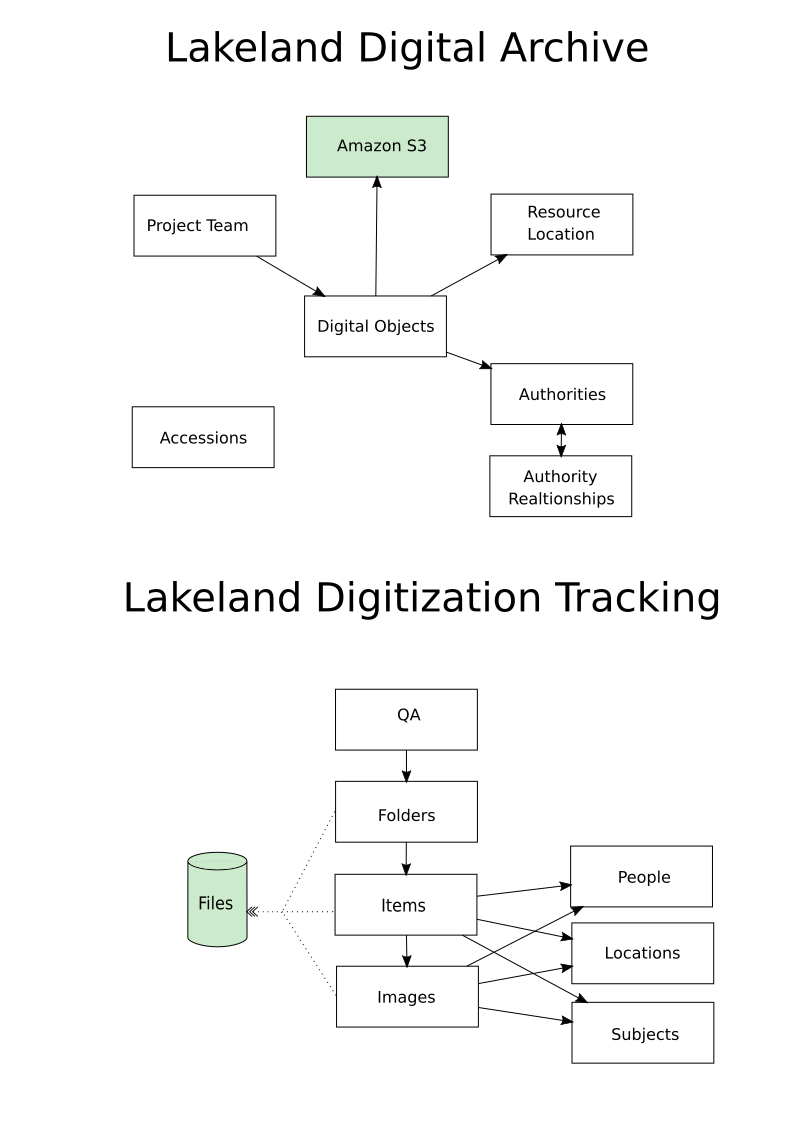
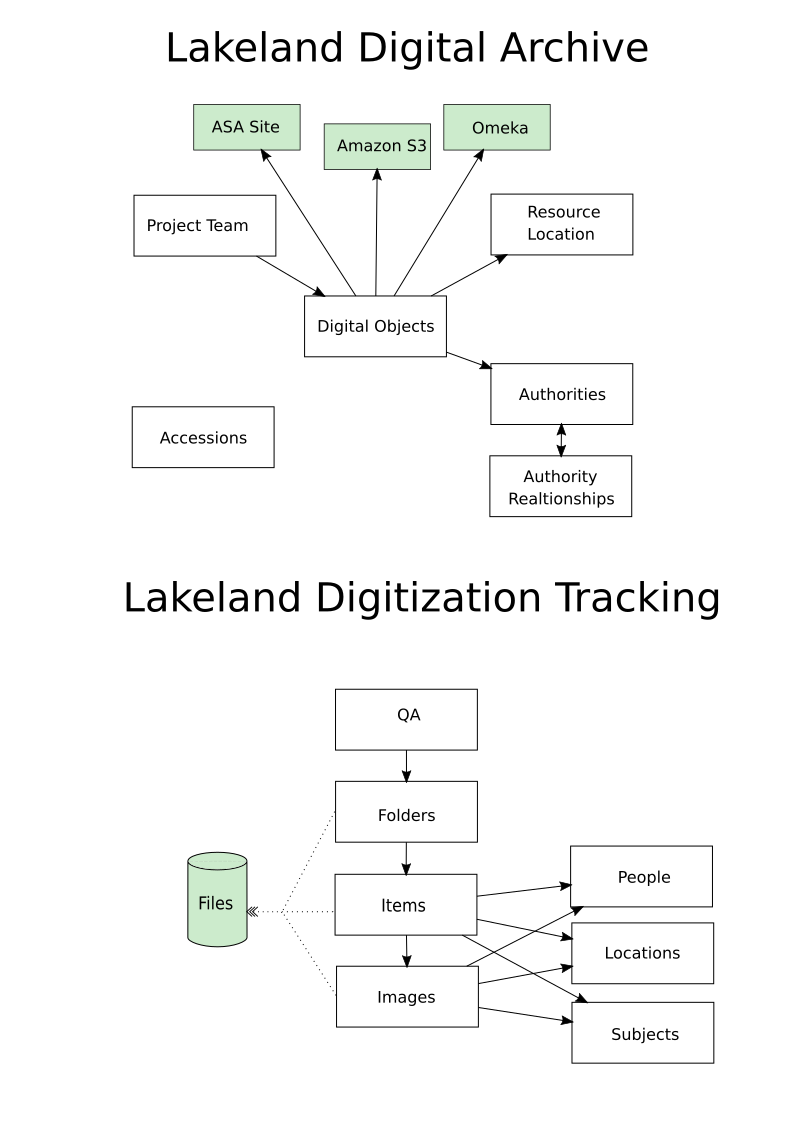
docs

Changed region(s): [[0.2418, 0.0935, 0.6952, 0.187]]

diff --git a/README.md b/README.md
@@ -246,7 +246,7 @@ The Lakeland Digital Archive (LDA) and Lakeland Digitization Tracking (LDT) data
 * LDT is all oriented around image files, whereas LDA is oriented towards multiple media types (audio, images, text).
 * LDT has hierarchy (folder, items, images) whereas LDA is flat record per file.
 * LDT and LDA both model subjects, people, locations. LDA has a single table for all of them, whereas LDT has separate tables for each type.
-* LDA is linked to the file system via a naming convention involving the folder, item and image name. LDT is explicitly linked to a URL (S3 bucket).
+* LDA is linked to the file system via a naming convention involving the folder, item and image name. LDT is explicitly linked to a URL (S3 bucket), but there are some links to the ASA interviews, and the old Omeka site.
 * LDA models some processing information in the Digital Objects and Resource Locations tables. LDT has a separate QA table that is linked to the Folders table.
 
 <img src="schema-before.png">
